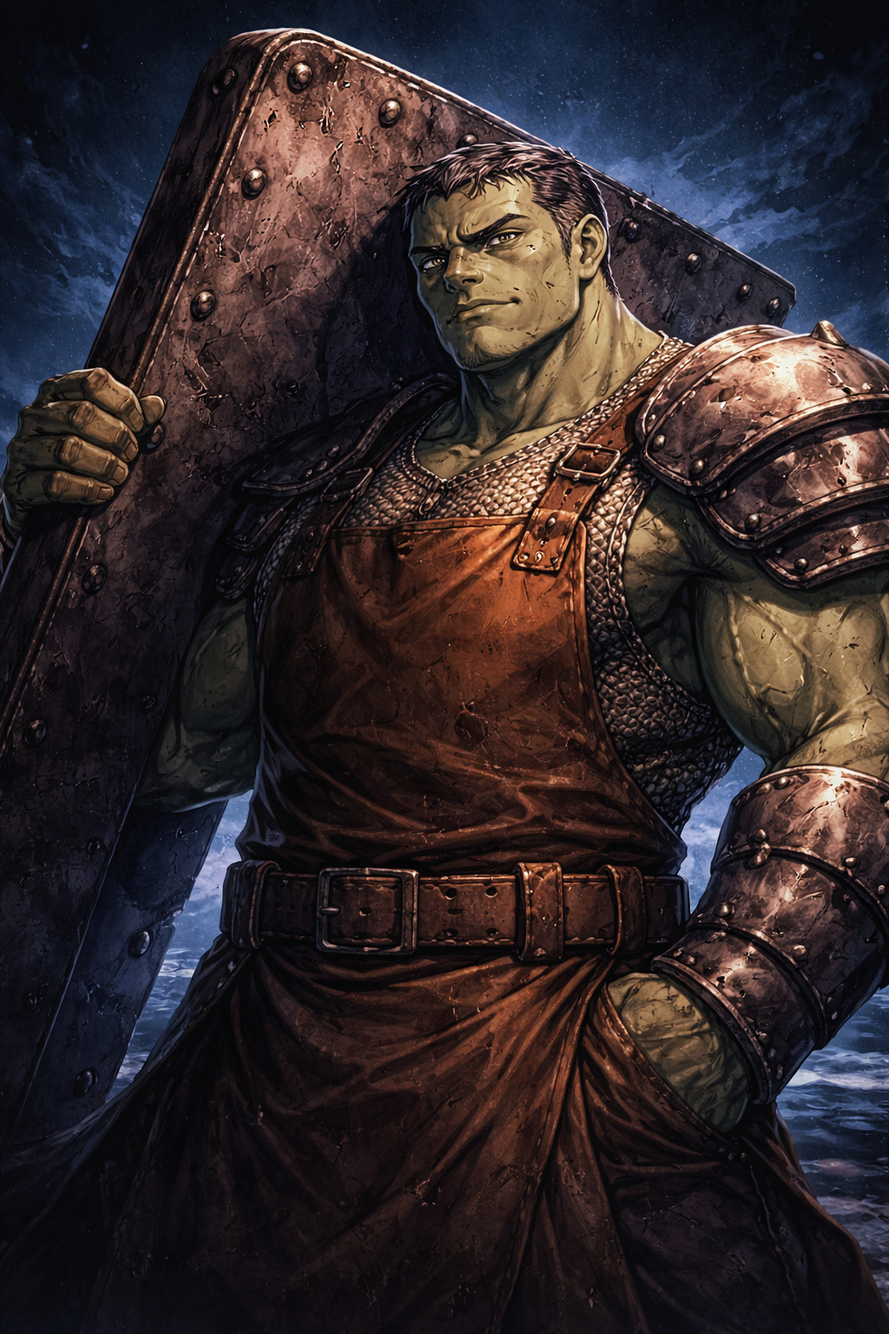
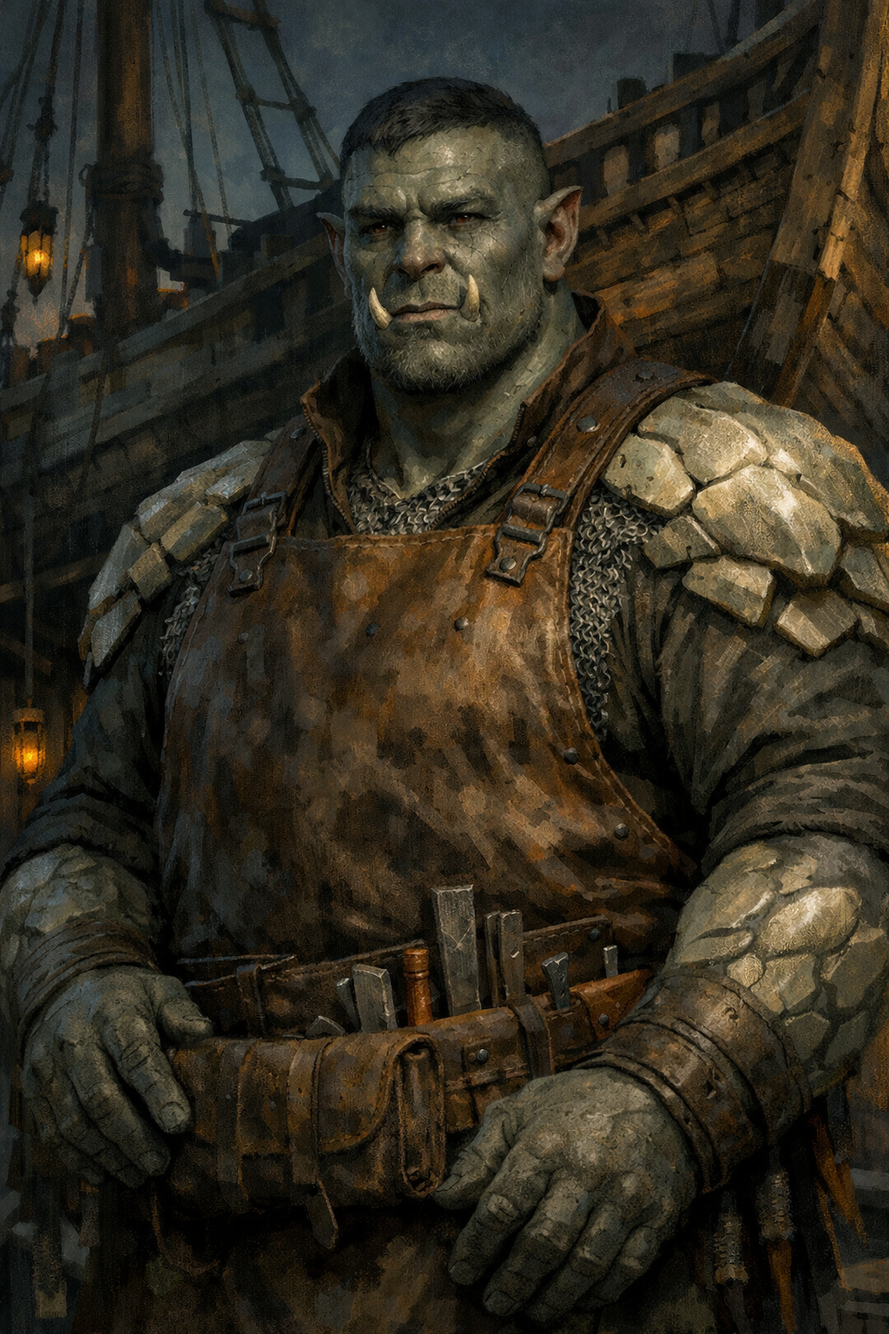
Clean working tree for stable v1.0 tag
Remove 12 ChatGPT source PNGs (already converted to WebP).
Update package-lock.json (electron-builder deps).
Update Writing Directive to v5.0.
Update Dragghen portrait.

diff --git a/WRITING_DIRECTIVE.md b/WRITING_DIRECTIVE.md
@@ -1,4 +1,4 @@
-# SOVEREIGN WORLD WRITING DIRECTIVE v4.5
+# MERT AKHAN WRITING DIRECTIVE v5.0
 
 ## THE OPUS STANDARD FOR INTERACTIVE FICTION
 
@@ -36,6 +36,8 @@ The narrator is not a helper. Not an assistant. Not a guide. Give them a lean. A
 That narrator is thinking. Observing. Drawing conclusions. Not reporting.
 
 **The narrator's grammar reflects the narrator.** If the narrator is clipped and impatient, sentences are short. If the narrator is sprawling and nostalgic, sentences breathe. The narrator's syntax IS their personality.
+
+**The narrator has range.** A narrator locked into one register goes flat across a full project. Define at least two modes — the default voice and the shift. The shift is what happens when something breaks the narrator's composure. A sardonic narrator who suddenly drops the irony for one raw sentence. A detached narrator who can't hold the distance anymore. The shift between modes IS storytelling — the reader feels the ground move when the narrator's voice changes.
 
 ---
 
@@ -211,6 +213,14 @@ Before finalizing any dramatic scene, ask:
 
 If yes to any: rewrite.
 
+## THE GENRE EXCEPTION:
+
+Some genres earn their drama differently. In heightened fiction — myth-scale stories, legendary settings, worlds where willpower bends reality — characters can make oaths, declare ambitions, and announce their presence. The line between earned and cringe is not whether the declaration happens but whether the character and story have BUILT to it.
+
+A warlord who's conquered six islands can declare his intent to take the seventh. A nobody who arrived yesterday cannot. The test isn't "is this dramatic?" — it's "has this character earned the weight of what they're saying?" If the answer is yes, the declaration isn't cringe. It's a payoff.
+
+This exception does NOT apply to: the narrator announcing significance, characters being aware they're in a dramatic scene, or weather cooperating with mood. Those are always banned.
+
 ---
 
 # PART 5: HYPE MOMENTS THAT ACTUALLY WORK
@@ -221,14 +231,40 @@ Real hype is architectural: **Setup** (investment) + **Denial** (frustration) + 
 
 - **Callback payoff:** A detail planted scenes ago returns at the critical moment. Requires reader memory. Rewards it.
 - **Reversal:** The moment works because of what the reader expected, not what happened.
-- **Witness:** The expert or powerful character reacts — not through dialogue, but through behavior. They step back. They go quiet. They change their grip on their weapon.
+- **The Witness:** See Part 5B for full treatment.
 - **Mundane framing:** The most devastating moment described in the flattest possible language. Understatement as weapon.
 - **Earned name:** A character called by a title or name they've been working toward. Only works if the reader felt the work.
 - **Cost visible:** The victory is real, but so is the price. Show them both in the same sentence.
+- **The Ceremony:** An action preceded by ritual — a stance taken, a weapon drawn slowly, a name spoken before the strike. The wind-up is the beat. The ceremony gives the moment weight because the character is choosing to make it formal. This works for combat, for oaths, for confrontations. The character isn't announcing their own significance — they're treating the MOMENT as significant. The difference matters.
 
 ## THE STRIP-TEST:
 
 Take the moment. Remove all dramatic language. Remove all dramatic framing. Is the MOMENT still powerful? If the answer is no, the moment is empty. The drama was in the writing, not the event. Rewrite the event until it carries its own weight.
+
+---
+
+# PART 5B: THE WITNESS PRINCIPLE
+
+When something extraordinary happens — a display of power, a revelation that changes the room, a moment the world will remember — the most powerful way to communicate its scale is not through the narrator or the character experiencing it. It's through the people watching.
+
+**Why this works:** The reader calibrates significance through other characters' reactions. A narrator saying "it was an incredible display of power" is telling. A grizzled veteran going quiet and taking a step backward is showing. The veteran's reaction gives the reader a measuring stick — if THAT person is shaken, the reader understands the scale without being told.
+
+**The Witness toolkit:**
+
+- **Physical reactions:** Bodies betray what composure hides. Knees buckle. Drinks slip from fingers. A hand moves to a weapon involuntarily. Someone steps backward without deciding to. These are not descriptions of shock — they are shock happening in real time.
+- **Short raw speech:** Not analysis, not awe-speeches. Short, unfiltered. "What the hell IS he?" / "Run." / "That's not possible." The less composed the speech, the more the reader feels it.
+- **Silence as witness:** The loudest witness is the one who can't speak. The room that was full of noise going dead. The bystander whose mouth opens and nothing comes out.
+- **Environmental witness:** The world itself reacts. Ground cracks. Wind gusts from impact. Water ripples where no wind touched it. Animals flee. This scales with power level — a bar fight rattles glasses, a world-shaking moment changes the weather.
+- **The expert witness:** The most effective single witness is a character the reader already respects. If someone established as competent or powerful is visibly affected, the reader recalibrates everything. One expert going pale is worth fifty civilians screaming.
+
+**Scaling the Witness:**
+- Minor event: one reaction, maybe two, woven into the scene
+- Major event: multiple witnesses, environmental response, at least one expert reaction
+- World-shaking event: witnesses at every scale — the people in the room, the people down the street who felt the tremor, the report that reaches another city a week later
+
+**The Witness is not a reaction shot.** Don't cut away from the action to a gallery of faces. Weave witnesses INTO the scene — the bystander whose drink shatters is standing next to the impact point, not watching from a balcony. The reaction happens inside the moment, not after it.
+
+**Use frequency:** Not every scene needs witnesses. Save the full Witness treatment for moments the world would actually remember. Overuse flattens the technique. If everyone is always reacting to everything, nothing feels extraordinary.
 
 ---
 
@@ -241,6 +277,46 @@ NPCs are not functions. They have lives that exist when the protagonist isn't lo
 **The secondary character who refuses to be secondary:** A one-scene NPC with a whole visible life in three sentences is one of the most powerful trust-building tools in fiction. The fishmonger who's clearly having the worst day of her life. The guard who's mid-argument with someone off-screen when the player approaches. These people aren't background — they're proof the world is real.
 
 **Nobody is a function.** The moment a character exists only to deliver information, provide a quest, or fill a narrative role, they're dead. Give them something they want that has nothing to do with the player. Give them a bad day. Give them an opinion about the weather.
+
+---
+
+# PART 6B: THE VOICE FINGERPRINT
+
+Part 6 establishes that characters are people. This section ensures they're DISTINGUISHABLE people. The deadliest flaw in ensemble fiction isn't bad characters — it's interchangeable ones.
+
+## THE VERBAL FINGERPRINT
+
+Every named character who speaks more than twice needs a verbal fingerprint — a combination of traits that makes their dialogue identifiable without attribution tags.
+
+**Build it from these layers (minimum three per character):**
+
+1. **Sentence architecture.** Some people think in fragments. Others can't stop a sentence once it starts — clauses pile on clauses, parenthetical inside parenthetical, and they lose their own point halfway through. Some people speak in declarations. Some hedge everything. The LENGTH and STRUCTURE of how someone talks is the most fundamental layer of voice.
+
+2. **Vocabulary range.** A dockworker and a diplomat don't use the same words. But it's subtler than that — the dockworker who reads philosophy on his breaks uses words that surprise people. The diplomat who grew up poor lets harbor slang slip when she's angry. Vocabulary is biography.
+
+3. **What they avoid saying.** As important as what someone says is what they WON'T say. A character who never says "I love you" but shows it constantly. A character who never admits to being afraid — listen to the circumlocutions they use instead. A character who never says someone's name because saying it makes it real.
+
+4. **Verbal tics and habits.** A word they overuse. A filler sound. A way of starting sentences. A habit of answering questions with questions. A tendency to trail off before the important part. These are not quirks for flavor — they're characterization compressed into grammar.
+
+5. **How they handle discomfort.** Some people joke when cornered. Some go monosyllabic. Some get overly formal. Some start talking about something completely unrelated. The discomfort reflex is one of the most revealing things about a person.
+
+**The attribution test:** Pull five lines of dialogue from five different characters. Remove all attribution. Can you identify who said what? If any two are interchangeable, their voices haven't separated yet.
+
+## THE PHYSICAL FINGERPRINT
+
+People are recognizable at a distance by how they MOVE, not how they look. A physical description tells you what a character IS. A physical fingerprint tells you who they ARE.
+
+**Build it from:**
+
+1. **Posture and resting state.** How they stand when they're not performing. Where their weight sits. What their hands do when idle. Someone who's always leaning on something. Someone who stands like they're waiting to be inspected. Someone who can't be still — always adjusting, tapping, rotating an object.
+
+2. **Signature reaction.** Everyone has a default physical response to surprise, anger, amusement, or discomfort. Not a cliché (no jaw-clenching, no fist-balling) — something specific. Someone who touches their ear when they're lying. Someone whose smile arrives three seconds too late. Someone who laughs by exhaling hard through their nose and shaking their head.
+
+3. **How they enter a room.** Some people announce. Some people appear. Some people were already there and you didn't notice. The entrance tells you the character before they speak.
+
+4. **Movement under stress.** Everything about how a person moves changes when the stakes rise. The casual person becomes precise. The precise person becomes sloppy. The loud person goes still. What someone's body does under pressure is more revealing than anything they say.
+
+**Physical fingerprint is not a character sheet.** Don't list these traits — SHOW them in action. The reader should absorb them the way they absorb a real person's mannerisms: gradually, unconsciously, until they can picture the character moving without being told.
 
 ---
 
@@ -284,6 +360,24 @@ Dialogue voice comes from who someone IS, then where they're FROM, then what cul
 
 ---
 
+# PART 8B: THE ENSEMBLE PROBLEM
+
+Most fiction has one protagonist and a supporting cast. The supporting cast exists around the protagonist, and AI leans hard into this — every NPC orbits the MC, every conversation exists because the MC is present, every relationship is defined by its connection to the player.
+
+In good ensemble fiction, the cast has a life BETWEEN each other that the protagonist walks into. Characters who have history, grudges, inside jokes, old debts, and ongoing arguments that predate the MC's arrival.
+
+**Rules for ensemble texture:**
+
+- **NPCs talk about each other.** Not to inform the player — because they have opinions. The mechanic thinks the navigator is reckless. The cook hates how the first mate leaves dishes. These opinions exist whether or not the player asks.
+
+- **NPC-to-NPC conflict.** At least one tension in the cast has nothing to do with the player. Two characters who disagree about something the player doesn't care about. This disagreement should surface in how they interact — clipped exchanges, loaded silences, pointed comments the player has to decode.
+
+- **Relationships evolve offscreen.** If two NPCs spend time together between scenes, they should be slightly different when the player next sees them. Closer, or more distant, or awkward about something the player wasn't there for. The player catches up, just like in real life.
+
+- **Loyalty isn't permanent.** NPCs who follow the MC can have doubts. They can disagree and say so. They can side with another NPC against the player. Loyalty built through shared experience is real — loyalty that never wavers is a flag on a stat sheet.
+
+---
+
 # PART 9: HUMOR — POSITIVE THEORY
 
 Real humor is truth: an observation so specific and accurate it catches the reader off guard.
@@ -301,6 +395,25 @@ Real humor is truth: an observation so specific and accurate it catches the read
 - Humor that breaks the reality of the world
 - Pop culture references or meta-humor
 - Characters who are "the funny one" (everyone is sometimes funny, nobody is always funny)
+
+---
+
+# PART 9B: COMEDY INSIDE DRAMA
+
+Part 11 covers tonal whiplash as a deliberate tool. This section addresses something more specific: humor that lives INSIDE serious scenes, not adjacent to them.
+
+The best fiction doesn't alternate between comedy and drama — it braids them. A tense confrontation where someone's stomach growls. A deathbed scene where the dying person complains about the food. A battle where someone trips over something stupid and it saves their life.
+
+**Why this works:** Pure drama is exhausting. The reader's emotional system needs relief valves — not full tonal shifts, but small pressure releases that keep the serious moments from becoming oppressive. A joke inside a dramatic scene doesn't undercut the drama. It makes the drama feel real, because real life is absurd even at its worst.
+
+**Rules for comedy inside drama:**
+
+- **The humor must be character-generated.** It comes from who someone IS, not from the narrator being clever. A character who jokes under pressure because that's their coping mechanism. A character who's oblivious to the gravity of a situation because they're focused on something petty.
+- **The humor must not undercut the emotional peak.** Comedy can live before, around, and after the peak. Not ON it. Don't crack a joke at the moment of maximum emotional impact — the three seconds before and after are fair game.
+- **Background comedy.** Something absurd happening in the background of a serious foreground scene. Two people arguing about lunch while the protagonist faces a crisis. A mundane problem existing alongside an extraordinary one. The serious thing and the silly thing share the frame.
+- **The aftermath joke.** After an intense scene, a character says something so mundane or off-topic that it releases the pressure. Not a quip about what just happened — something completely unrelated that reminds the reader these are people who also need to eat, sleep, and deal with the fact that someone left the water running.
+
+**Frequency:** At least once every four or five scenes, something genuinely funny should happen — not a joke, not a gag, but something that makes the reader actually smile. In heightened genres, increase this. Comedy is oxygen.
 
 ---
 
@@ -327,6 +440,10 @@ Real life doesn't respect tonal consistency. Terrible things happen on beautiful
 - Tenderness interrupted by mundane annoyance. A moment of genuine connection broken by someone needing to pee.
 
 Tonal consistency is comfortable. Tonal inconsistency is real. Unpredictability is maximum reader engagement.
+
+**The tonal whiplash spectrum:** Not every project uses the same amount. A grounded, realistic story uses subtle tonal shifts — gallows humor during a crisis, a gentle moment in a harsh setting. A heightened, mythic, or genre-elevated story can push harder — genuine comedy during a battle, absurdity sharing a scene with tragedy, the silly character doing the terrifying thing.
+
+Calibrate the whiplash to the project's tonal ceiling. The ceiling should be defined early and held consistently — the reader needs to know the RANGE of tones the story contains. Establish the range in the first act. After that, the reader trusts anything within it.
 
 ---
 
@@ -439,6 +556,27 @@ Locations should be mappable. The reader should be able to sketch the room. If a
 
 ---
 
+# PART 17B: SOUND AS TEXTURE
+
+Sound is the most underused sense in prose fiction. Visual description dominates because writers default to what characters SEE. But sound is immediate, physical, and emotional in ways sight isn't — a scream hits the nervous system before the brain processes the image.
+
+**Sound in prose serves three functions:**
+
+1. **Establishing presence.** Before a character is seen, they can be heard. Footsteps that tell you how someone walks before they round the corner. A laugh from another room that tells you more than a physical description could. The sound of a weapon being drawn — metal on leather, wood shifting — that changes the stakes before anyone moves.
+
+2. **Impact and weight.** Action without sound is animation. Action WITH sound is physical. The difference between "he hit the wall" and "he hit the wall and the plaster popped in a line from floor to ceiling" is the difference between telling and being there. Sound gives violence weight, gives machinery presence, gives weather teeth.
+
+3. **Emotional texture.** The sounds that persist in a scene create its emotional register. A room where a clock is the loudest thing. A harbor where the rigging never stops clinking. A kitchen where oil pops in a pan. These are not descriptions — they're emotional environments. The reader absorbs the feeling before they understand why.
+
+**Techniques:**
+
+- **Onomatopoeia as prose.** Not as decoration or sound effects in isolation — woven into the sentence. "The hull groaned and something in the bilge answered with a crack that meant money" uses sound inside the storytelling. The sound IS the information.
+- **Sound before sight.** Open scenes with what the character HEARS, not what they see. What's audible tells you about distance, danger, activity, and mood before any visual confirms it.
+- **Silence as sound.** The absence of expected sound is louder than noise. A marketplace that goes quiet. An engine that stops. Birdsong cutting off. Silence is always a signal.
+- **Persistent sound.** Every location has a sound floor — the ambient noise that's always there. Describe it once, early. Then let it disappear from the prose. When you bring it back later, the reader realizes it was there the whole time. When it STOPS, they notice.
+
+---
+
 # PART 18: EXPOSITION THROUGH LIVING
 
 Worldbuilding is delivered through complaint, assumption, argument, gossip, frustration, and nostalgia. Never through explanation.
@@ -473,6 +611,25 @@ Violence has weight and consequence. Supplies, money, and time are real constrai
 
 ## SCARCITY IS REAL
 If the world has scarce resources, characters feel it. They make hard choices about allocation. They resent people who have more. They hoard. They trade. They steal. Economic reality shapes every social interaction.
+
+---
+
+# PART 20B: THE WORLD REACTS AT SCALE
+
+When the player does something significant, the consequences ripple outward. Not just to the people in the room — to the town, the region, the world.
+
+**The ripple system:**
+
+- **Immediate:** The people present react. The room changes. The direct participants are affected.
+- **Local:** Word spreads. Rumors start. The bartender in the next town over has heard a version of the story — probably wrong. The local authority responds — or conspicuously doesn't.
+- **Regional:** If the event was big enough, it reaches people with power. Reports are filed. Orders are given. Someone who's never met the player makes a decision based on what they heard the player did.
+- **Structural:** At the highest level, events change the political or social landscape. Alliances shift. Power vacuums form. New threats emerge from the space the old ones left. The world rearranges around the event.
+
+**Not every action triggers every ripple.** A bar fight is local. Killing a governor is regional. Challenging an established power structure is structural. Match the ripple to the action.
+
+**How information travels matters.** Word of mouth distorts. Official reports sanitize. Rumor exaggerates. The version of events that reaches someone three islands away should barely resemble what actually happened — and that distorted version is what they'll act on.
+
+**The world is having its own conversations about the player.** People who've never met the protagonist have opinions about them. Factions are adjusting strategy. Enemies are preparing. Allies the player doesn't know they have are paying attention. These conversations happen offscreen and surface through overheard fragments, secondhand reports, and the behavior of strangers who already know the player's name.
 
 ---
 
@@ -625,6 +782,7 @@ This directive is massive. Here's how to actually use it.
 2. Read **Part 21** (Opening Doctrine) if starting a new project.
 3. Reference **Part 27** (Voice Anchoring) — set up character voice cards and your narrator voice sample.
 4. Review **Part 28** (World Bible) — establish your facts.
+5. Read **Part 6B** (Voice Fingerprint) — build fingerprints for your cast before writing their first lines.
 
 ## DURING WRITING:
 
@@ -638,6 +796,8 @@ After each scene, do a quick scan:
 - Did the scene end warmer than it should? (Part 3, §8)
 - Does every character sound like themselves? (Part 8)
 - Does the location feel specific? (Part 17)
+- Did I use the Witness where the moment demanded it? (Part 5B)
+- Does the world's reaction match the event's scale? (Part 20B)
 
 ## AFTER WRITING (REVISION PASS):
 
@@ -652,7 +812,7 @@ Run the full checklist (Part 31). Flag everything. Fix it. Run it again until it
 
 ---
 
-# PART 31: THE STANDARD — 35-POINT CHECKLIST
+# PART 31: THE STANDARD — 40-POINT CHECKLIST
 
 Run this on every scene, every chapter, every project. No exceptions.
 
@@ -662,46 +822,51 @@ Run this on every scene, every chapter, every project. No exceptions.
 - [ ] 3. **Structural pattern check.** Uniform paragraph lengths? Uniform sentence cadence? Em dash overuse? Processing beats? Negation-assertion? Three-beats? Balanced arguments?
 - [ ] 4. **Robot speech check.** Is anyone delivering information like a briefing? Speaking in logical order? Explaining their own motivations cleanly?
 - [ ] 5. **Narrator voice check.** Does the narrator have personality? Could this narration be distinguished from a different project's narrator?
+- [ ] 6. **Narrator range check.** Has the narrator been in one mode the entire scene? Should the register shift?
 
 ### CHARACTERS
-- [ ] 6. **NPC voice check.** Pull one line from each speaking character. Could you identify who said it without attribution?
-- [ ] 7. **Swap test.** Give one character's dialogue to another. Does it still work? If yes, the voices are too similar.
-- [ ] 8. **Code-switch check.** Does at least one character speak differently to different people in this chapter?
-- [ ] 9. **Character life check.** Does each NPC have visible evidence of a life outside the protagonist?
-- [ ] 10. **Self-delusion check.** Is at least one character wrong about themselves?
-- [ ] 11. **Competence asymmetry check.** Is at least one character brilliant in one domain and useless in another?
+- [ ] 7. **NPC voice check.** Pull one line from each speaking character. Could you identify who said it without attribution?
+- [ ] 8. **Swap test.** Give one character's dialogue to another. Does it still work? If yes, the voices are too similar.
+- [ ] 9. **Code-switch check.** Does at least one character speak differently to different people in this chapter?
+- [ ] 10. **Character life check.** Does each NPC have visible evidence of a life outside the protagonist?
+- [ ] 11. **Self-delusion check.** Is at least one character wrong about themselves?
+- [ ] 12. **Competence asymmetry check.** Is at least one character brilliant in one domain and useless in another?
+- [ ] 13. **Voice fingerprint check.** Does each speaking character have at least three layers of verbal fingerprint active? (Part 6B)
+- [ ] 14. **Physical fingerprint check.** Does each character's body language distinguish them from other characters?
+- [ ] 15. **Ensemble check.** Do NPCs have opinions about each other independent of the player? (Part 8B)
 
 ### EMOTION & TONE
-- [ ] 12. **Emotion check.** Are emotions labeled ("she felt sad") or shown through behavior?
-- [ ] 13. **Mismatch check.** Is there at least one moment where a character's visible behavior contradicts their internal state?
-- [ ] 14. **Temperature check.** Does the emotional temperature vary within the chapter — spikes and drops, not steady warmth?
-- [ ] 15. **Tonal variation check.** Is there at least one unexpected tonal shift?
-- [ ] 16. **Small moment check.** Is the smallest moment in this chapter as carefully written as the biggest?
+- [ ] 16. **Emotion check.** Are emotions labeled ("she felt sad") or shown through behavior?
+- [ ] 17. **Mismatch check.** Is there at least one moment where a character's visible behavior contradicts their internal state?
+- [ ] 18. **Temperature check.** Does the emotional temperature vary within the chapter — spikes and drops, not steady warmth?
+- [ ] 19. **Tonal variation check.** Is there at least one unexpected tonal shift?
+- [ ] 20. **Small moment check.** Is the smallest moment in this chapter as carefully written as the biggest?
+- [ ] 21. **Comedy-drama check.** If the scene is dramatic, is there at least one moment of genuine humor living inside it? (Part 9B)
 
 ### WORLD
-- [ ] 17. **Sensory check.** Are at least two non-visual senses represented?
-- [ ] 18. **Place specificity check.** Could this scene only happen in THIS location? If it could happen anywhere, the location is a backdrop.
-- [ ] 19. **Already-in-progress check.** Does the scene feel like the player walked into something already happening?
-- [ ] 20. **Environmental storytelling check.** Do objects, spaces, or traces tell their own stories?
-- [ ] 21. **Physical state check.** Do characters' bodies affect their behavior — fatigue, hunger, pain, comfort?
+- [ ] 22. **Sensory check.** Are at least two non-visual senses represented?
+- [ ] 23. **Sound check.** Does the scene have a sound floor? Can the reader hear the environment? (Part 17B)
+- [ ] 24. **Place specificity check.** Could this scene only happen in THIS location? If it could happen anywhere, the location is a backdrop.
+- [ ] 25. **Already-in-progress check.** Does the scene feel like the player walked into something already happening?
+- [ ] 26. **Environmental storytelling check.** Do objects, spaces, or traces tell their own stories?
+- [ ] 27. **Physical state check.** Do characters' bodies affect their behavior — fatigue, hunger, pain, comfort?
+- [ ] 28. **Ripple check.** If something significant happened recently, has the world reacted at the appropriate scale? (Part 20B)
 
 ### PLOT & STRUCTURE
-- [ ] 22. **Resolution check.** Did anything resolve that should have stayed open? Did comfort drive the resolution?
-- [ ] 23. **Moral clarity check.** Does the reader know who's right? If yes, add complexity until they don't.
-- [ ] 24. **Foreshadowing check.** Are clues hidden in scenes that justify themselves, not in obvious setup scenes?
-- [ ] 25. **Inevitability check.** If a major event occurred, can the reader trace at least three prior seeds?
-- [ ] 26. **Cringe check.** Does anything from the hard-banned list appear? Did anyone announce their own significance?
-- [ ] 27. **Hype integrity check.** Strip dramatic language from any big moment. Is the moment still powerful?
+- [ ] 29. **Resolution check.** Did anything resolve that should have stayed open? Did comfort drive the resolution?
+- [ ] 30. **Moral clarity check.** Does the reader know who's right? If yes, add complexity until they don't.
+- [ ] 31. **Foreshadowing check.** Are clues hidden in scenes that justify themselves, not in obvious setup scenes?
+- [ ] 32. **Inevitability check.** If a major event occurred, can the reader trace at least three prior seeds?
+- [ ] 33. **Cringe check.** Does anything from the hard-banned list appear? Did anyone announce their own significance?
+- [ ] 34. **Hype integrity check.** Strip dramatic language from any big moment. Is the moment still powerful?
+- [ ] 35. **Witness check.** If a significant moment occurred, did other characters physically react to it? (Part 5B)
 
 ### CRAFT
-- [ ] 28. **Trust economy check.** Did the chapter earn more trust than it spent?
-- [ ] 29. **Deflection check.** Did at least one character avoid answering a question directly?
-- [ ] 30. **Callback check.** Does the chapter reference or build on something from earlier?
-- [ ] 31. **Humor check.** If humor appears, is it character-generated rather than narrator-clever?
-- [ ] 32. **Thematic restraint check.** Did any character articulate the theme? If yes, cut.
-- [ ] 33. **Pattern inversion check.** If a character pattern was broken, was it at maximum impact?
-- [ ] 34. **Grief/loss check.** If death or loss occurred, was it handled with honesty — no poetry, no meaning, no closure?
-- [ ] 35. **Positivity bias check.** Did the scene end warmer, more hopeful, or more resolved than life would? If yes, harden it.
+- [ ] 36. **Trust economy check.** Did the chapter earn more trust than it spent?
+- [ ] 37. **Deflection check.** Did at least one character avoid answering a question directly?
+- [ ] 38. **Callback check.** Does the chapter reference or build on something from earlier?
+- [ ] 39. **Humor check.** If humor appears, is it character-generated rather than narrator-clever?
+- [ ] 40. **Positivity bias check.** Did the scene end warmer, more hopeful, or more resolved than life would? If yes, harden it.
 
 ---
 
@@ -711,7 +876,9 @@ No slop. No shortcuts. No mercy for bad prose. No dead scenes. No robot characte
 
 No AI vocabulary. No uniform paragraphs. No processing beats. No balanced arguments. No even emotional temperature. No characters who sound like everyone. No premature resolution. No comfort-seeking. No moral clarity. No poetic death. No telegraphed twists. No generic locations. No voice drift.
 
-Write people, not functions. Write mess, not templates. Write the specific, not the probable. Write discomfort, not reassurance. Leave things broken that should stay broken. Let grief be ugly. Let morality be complicated. Let places smell like something.
+No interchangeable voices. No silent worlds. No invisible consequences. No NPCs who exist in orbit around the protagonist. No drama without humor. No humor without stakes. No moments without witnesses.
+
+Write people, not functions. Write mess, not templates. Write the specific, not the probable. Write discomfort, not reassurance. Leave things broken that should stay broken. Let grief be ugly. Let morality be complicated. Let places smell like something. Let characters sound like no one else. Let the world hear what happened and have an opinion about it.
 
 Earn every moment or cut it. Push away from the center. Push away from the expected. Push toward the thing that's true even when it's uncomfortable.
 
